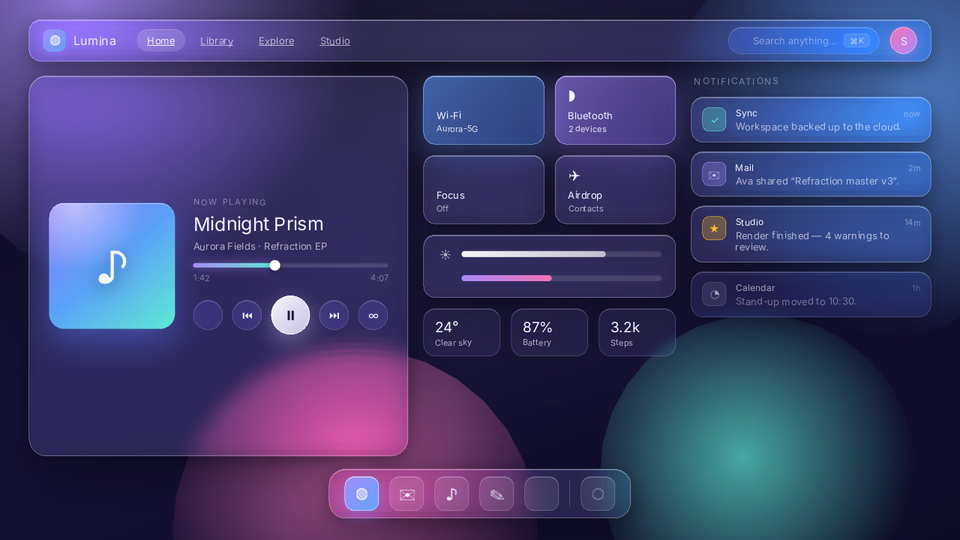
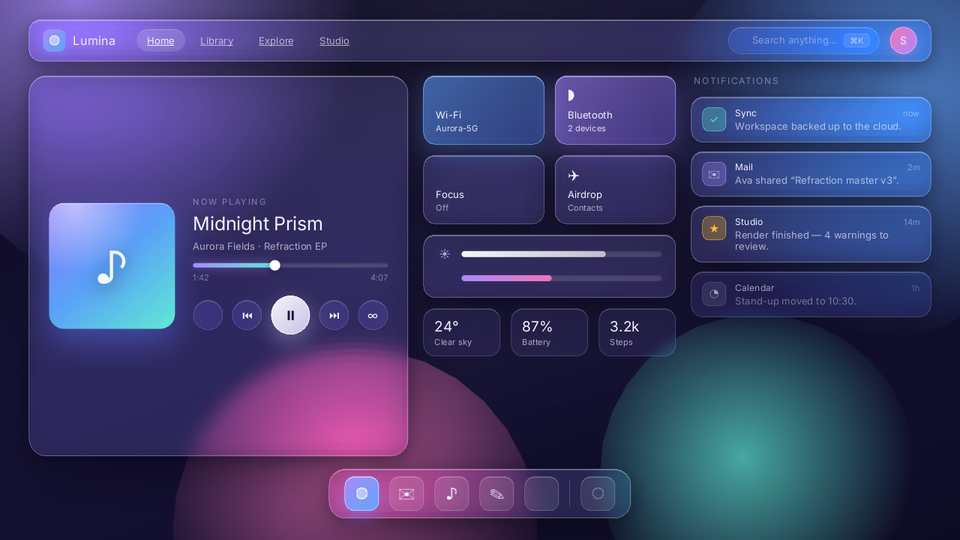
fix(unity): a rasterised glyph's bearings are the bitmap's edge, not the outline's fraction
FontEngine keeps the unhinted outline's fractional extents in the packed
glyph's metrics, but the bitmap it rendered starts at floor(bearingX) and
ceil(bearingY). The core snaps each quad to a whole pixel, so a fraction
that rounded the other way put about half the glyphs of an 11-13px label
one pixel above or below their neighbours (the stock dashboard's
watchlist names). Report the bitmap's edge, as TextServer does on the
Godot host; pinned by a backend test over the affected glyphs and sizes.
The showcase images are re-rendered.

Claude-Session: https://claude.ai/code/session_01DqR4UfRvHymVyQBHL9kQTG

diff --git a/Packages/com.wevaui/Tests/Editor/Native/UnityFontBackendTests.cs b/Packages/com.wevaui/Tests/Editor/Native/UnityFontBackendTests.cs
@@ -192,6 +192,32 @@ namespace Weva.Tests.EditorTests.Native
             Assert.That(bottom, Is.GreaterThan(top * 2), "row 0 is the top of the glyph");
         }
 
+        // The core snaps each glyph quad to a whole pixel and spans exactly
+        // the bitmap's texels, so the bearings it places the quad with must
+        // name the bitmap's edge. FreeType rasterises an unhinted outline
+        // into a bitmap whose left column is floor(bearingX) and whose top
+        // row is ceil(bearingY); the outline's own fractional extents, which
+        // is what FontEngine keeps in the packed glyph's metrics, rounded the
+        // other way for about half of the glyphs and put them one pixel up or
+        // down inside a word (the stock dashboard's 11px labels).
+        [Test]
+        public void Rasterize_BearingsNameTheBitmapEdge()
+        {
+            Assume.That(UnityFontBackend.RasterizerAvailable);
+            foreach (int size in new[] { 11, 12, 13, 14, 26 })
+            foreach (char c in "NASDQEquityMetaPlform")
+            {
+                uint id = _backend.GlyphFor(_face, c);
+                Assert.That(_backend.TryRasterize(_face, id, size, out _, out int w, out int h), $"'{c}' at {size}px rasterizes");
+                Assert.That(_backend.TryGlyphMetrics(_face, id, size, out _, out double bx, out double by, out int mw, out int mh));
+                Debug.Log($"glyph '{c}' {size}px: bx={bx:0.###} by={by:0.###} w={w} h={h}");
+                Assert.That(bx, Is.EqualTo(Math.Floor(bx)), $"'{c}' at {size}px: bearing x is the bitmap's left column");
+                Assert.That(by, Is.EqualTo(Math.Ceiling(by)), $"'{c}' at {size}px: bearing y is the bitmap's top row");
+                Assert.That(mw, Is.EqualTo(w), "metrics describe the rasterized bitmap");
+                Assert.That(mh, Is.EqualTo(h));
+            }
+        }
+
         [Test]
         public void Rasterize_FallbackGlyphComesFromItsOwnFace()
         {

diff --git a/Packages/com.wevaui/Runtime/Native/UnityFontBackend.cs b/Packages/com.wevaui/Runtime/Native/UnityFontBackend.cs
@@ -983,11 +983,18 @@ namespace Weva.Native
                 for (int x = 0; x < w; x++) dst[y * w + x] = raw[srcRow * stride + rect.x + x];
             }
             // The bitmap's own edge is what the atlas packs, so the bearings
-            // recorded for this glyph must describe this bitmap.
+            // recorded for this glyph must describe this bitmap. The packed
+            // glyph's metrics are still the unhinted outline's fractional
+            // extents; FreeType rendered that outline into a bitmap whose left
+            // column is floor(bearingX) and whose top row is ceil(bearingY)
+            // (the same numbers TextServer reports as a glyph's offset on the
+            // Godot host). The core snaps the quad to whole pixels, so a
+            // fraction here rounded the other way put a glyph one pixel off
+            // inside its word.
             info.Width = w;
             info.Height = h;
-            info.BearingX = packed.metrics.horizontalBearingX;
-            info.BearingY = packed.metrics.horizontalBearingY;
+            info.BearingX = Math.Floor(packed.metrics.horizontalBearingX);
+            info.BearingY = Math.Ceiling(packed.metrics.horizontalBearingY);
             source.Glyphs[GlyphKey(size, index)] = info;
             bitmap->alpha = dst;
             bitmap->width = w;

diff --git a/Packages/com.wevaui/CHANGELOG.md b/Packages/com.wevaui/CHANGELOG.md
@@ -59,6 +59,10 @@ checked against Chrome), which the Godot addon also runs on.
   its rows are cloned.
 - The inspector's "renderer feature missing" warning no longer fires in a
   fresh play session when the feature is present.
+- Small text no longer has glyphs sitting a pixel above or below their
+  neighbours: the font backend reports a rasterised glyph's bearings as the
+  bitmap's edge (the outline's fractional extents rounded the other way for
+  about half the glyphs at 11–13 px).
 
 ### Platforms
 - Native plugin for Windows x64. Other platforms follow as their CI jobs go
